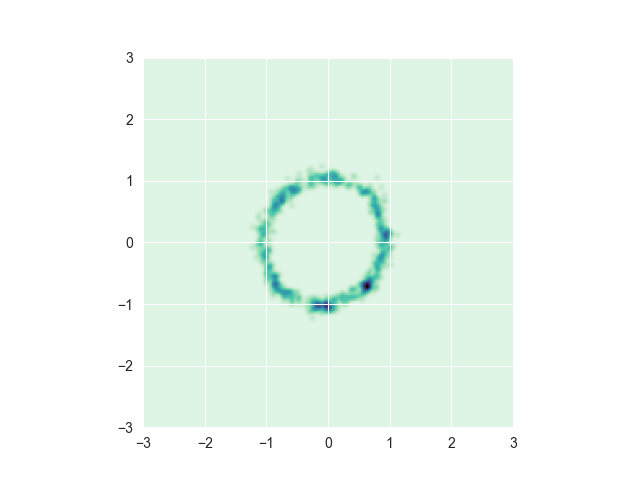
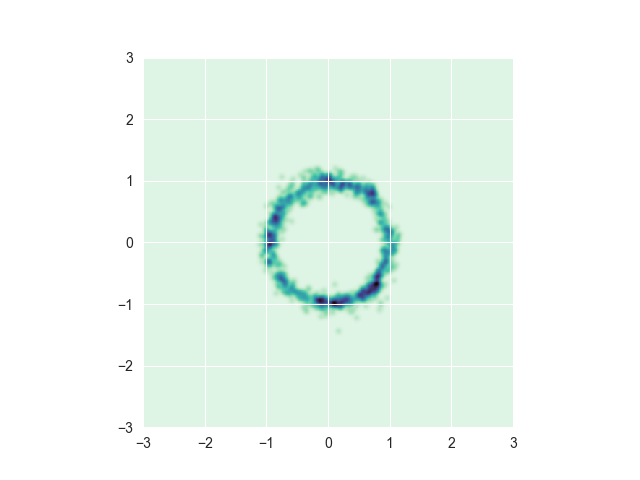
removed horrible try except clause. fix example.py bug to do with scaling the data. remove dependence on prod from python3.8

Changed region(s): [[0.375, 0.3438, 0.625, 0.6562]]

diff --git a/examples/example.py b/examples/example.py
@@ -77,9 +77,9 @@ class CircleDataset(Dataset):
         return data_scaler
 
     def get_data_inverse_scaler(self, config):
-        def data_scaler(x):
+        def data_inverse_scaler(x):
             return x * jnp.sqrt(2)
-        return data_scaler
+        return data_inverse_scaler
 
 
 def main(argv):
@@ -119,7 +119,9 @@ def main(argv):
             .. math::
                 \hat{p}_{t}(x)
         """
-        mean, std = sde.marginal_prob(scaler(dataset.train_data), t)
+        mean_coeff = sde.mean_coeff(t)
+        mean = mean_coeff * scaler(dataset.train_data)
+        std = jnp.sqrt(sde.variance(t))
         potentials = jnp.sum(-(x - mean)**2 / (2 * std**2), axis=1)
         return logsumexp(potentials, axis=0, b=1/num_samples)
 
@@ -198,6 +200,7 @@ def main(argv):
     data = jnp.array([-0.5, 0.0])
     mask = jnp.array([1, 0])
     data = jnp.tile(data, (64, 1))
+    data = scaler(data)
     mask = jnp.tile(mask, (64, 1))
     inpainter = get_inpainter(
         outer_solver,

diff --git a/diffusionjax/utils.py b/diffusionjax/utils.py
@@ -161,7 +161,7 @@ def retrain_nn(
 
 def get_score(sde, model, params, score_scaling):
     if score_scaling is True:
-        return lambda x, t: -batch_mul(model.apply(params, x, t), 1. / sde.marginal_prob(x, t)[1])
+        return lambda x, t: -batch_mul(model.apply(params, x, t), 1. / jnp.sqrt(sde.variance(t)))
     else:
         return lambda x, t: -model.apply(params, x, t)
 

diff --git a/diffusionjax/sde.py b/diffusionjax/sde.py
@@ -162,11 +162,7 @@ class VP(SDE):
             t: JAX float of the time
         """
         m = self.mean_coeff(t)
-        # TODO: remove this try except clause
-        try:
-            mean = batch_mul(m, x)
-        except:
-            mean = m * x
+        mean = batch_mul(m, x)
         std = jnp.sqrt(self.variance(t))
         return mean, std
 

diff --git a/examples/example2.py b/examples/example2.py
@@ -83,7 +83,7 @@ def main():
     plot_samples_1D(samples[:64], image_size, "samples 1D")
 
     # Get sde model, variance preserving (VP) a.k.a. time-changed Ohrnstein Uhlenbeck (OU)
-    sde = VP(beta_min=0.1, beta_max=10.0)
+    sde = VP(beta_min=0.1, beta_max=25.0)
 
     def log_hat_pt(x, t):
         """

diff --git a/diffusionjax/models.py b/diffusionjax/models.py
@@ -1,5 +1,6 @@
 import flax.linen as nn
 import numpy as np
+import jax.numpy as jnp
 
 
 class MLP(nn.Module):
